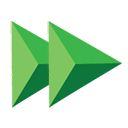
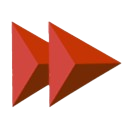
increase & decrease velocity

diff --git a/src/main/java/jmt/jmch/wizard/panels/AnimationPanel.java b/src/main/java/jmt/jmch/wizard/panels/AnimationPanel.java
@@ -52,6 +52,7 @@ import javax.swing.JScrollPane;
 import javax.swing.JSlider;
 import javax.swing.JSpinner;
 import javax.swing.SpinnerNumberModel;
+import javax.swing.SwingConstants;
 import javax.swing.SwingUtilities;
 import javax.swing.border.EmptyBorder;
 import javax.swing.border.EtchedBorder;
@@ -75,8 +76,10 @@ import jmt.jmch.Constants;
 import jmt.jmch.Solver;
 import jmt.jmch.wizard.actionsWizard.About;
 import jmt.jmch.wizard.actionsWizard.AbstractMCHAction;
+import jmt.jmch.wizard.actionsWizard.DecreaseVelocity;
 import jmt.jmch.wizard.actionsWizard.Exit;
 import jmt.jmch.wizard.actionsWizard.Help;
+import jmt.jmch.wizard.actionsWizard.IncreaseVelocity;
 import jmt.jmch.wizard.actionsWizard.NextStepSimulation;
 import jmt.jmch.wizard.actionsWizard.PauseSimulation;
 import jmt.jmch.wizard.actionsWizard.ReloadSimulation;
@@ -163,6 +166,12 @@ public class AnimationPanel extends WizardPanel implements JMCHWizardPanel, GuiI
     private AbstractMCHAction nextStep;
     private AbstractMCHAction openHelp;
     private AbstractMCHAction about;
+    private AbstractMCHAction increaseVelocity;
+    private AbstractMCHAction decreaseVelocity;
+
+    //------------ properties simulation velocity ---------------
+    private double[] velocity = {0.25, 0.5, 1, 2.0, 4.0};
+    private int indexVelocity = 2;
 
     //--------------properties of the animation------------------
     private Simulation simulation;
@@ -191,6 +200,8 @@ public class AnimationPanel extends WizardPanel implements JMCHWizardPanel, GuiI
         nextStep = new NextStepSimulation(this);
         openHelp = new Help(this,"JTCH");
         about = new About(this);
+        increaseVelocity = new IncreaseVelocity(this);
+        decreaseVelocity = new DecreaseVelocity(this);
 
         start.setEnabled(true); 
         nextStep.setEnabled(false);
@@ -353,7 +364,7 @@ public class AnimationPanel extends WizardPanel implements JMCHWizardPanel, GuiI
             JPanel p1Panel = new JPanel();
             probabilitiesPanel.add(p1Panel);            
             p1Panel.setLayout(new GridLayout(1,2));
-            p1Panel.add(new JLabel("P1:"));
+            p1Panel.add(new JLabel("Probability P1:"));      
             SpinnerNumberModel model1 = new SpinnerNumberModel(0.5,0,1,0.01);
             prob1 = new JSpinner(model1);
             p1Panel.add(prob1);
@@ -362,7 +373,7 @@ public class AnimationPanel extends WizardPanel implements JMCHWizardPanel, GuiI
             JPanel p2Panel = new JPanel();
             probabilitiesPanel.add(p2Panel);
             p2Panel.setLayout(new GridLayout(1,2));
-            p2Panel.add(new JLabel("P2:"));
+            p2Panel.add(new JLabel("Probability P2:"));
             SpinnerNumberModel model2 = new SpinnerNumberModel(0.5,0,1,0.01);
             prob2 = new JSpinner(model2);
             p2Panel.add(prob2);
@@ -733,7 +744,7 @@ public class AnimationPanel extends WizardPanel implements JMCHWizardPanel, GuiI
 		menu.addMenu(action);
 
         //Solve window
-		action = new MenuAction("Solve", new AbstractMCHAction[] {start, pause, reload, nextStep, null});
+		action = new MenuAction("Solve", new AbstractMCHAction[] {start, pause, reload, nextStep, null, decreaseVelocity, increaseVelocity});
 		menu.addMenu(action);
 
         //Help window
@@ -750,29 +761,26 @@ public class AnimationPanel extends WizardPanel implements JMCHWizardPanel, GuiI
         JMTToolBar toolbar = new JMTToolBar(JMTImageLoader.getImageLoader());	
 
         //first add all the icons with their actions
-        AbstractMCHAction[] actions = new AbstractMCHAction[] {start, pause, reload, nextStep, null, openHelp}; // Builds an array with all actions	
+        AbstractMCHAction[] actions = new AbstractMCHAction[] {start, pause, reload, nextStep, null, decreaseVelocity, increaseVelocity, openHelp}; // Builds an array with all actions	
         toolbar.populateToolbar(actions);
         ArrayList<AbstractButton> buttons = new ArrayList<AbstractButton>(); //create a list of AbstractButtons for the helpLabel
 		buttons.addAll(toolbar.populateToolbar(actions));
+        toolbar.setFloatable(false);
 
-        parent.setToolBar(toolbar);
-        toolbar.setVisible(true);
 
-        System.out.println(toolbar.getHeight());
-
-        SwingUtilities.invokeLater(() -> {
+        /*SwingUtilities.invokeLater(() -> {
         	System.out.println(toolbar.getHeight());
             int toolbarHeight = toolbar.getHeight();
 
             toolbar.setPreferredSize(new Dimension(toolbar.getWidth(), toolbarHeight));
             toolbar.setMaximumSize(new Dimension(Integer.MAX_VALUE, toolbarHeight)); 
 
-            VelocityPanel vp = new VelocityPanel(toolbar.getHeight());
+            VelocityPanel vp = new VelocityPanel();
             toolbar.add(vp); 
         });
          
         
-        System.out.println(toolbar.getHeight());
+        System.out.println(toolbar.getHeight()); */
 
         //add help for each Action/JComboBox with helpLabel
 		for (int i = 0; i < buttons.size(); i++) {
@@ -780,7 +788,7 @@ public class AnimationPanel extends WizardPanel implements JMCHWizardPanel, GuiI
 			help.addHelp(button, Constants.HELP_BUTTONS_ANIMATIONS[i]);
 		}
 		  
-		
+		parent.setToolBar(toolbar);
 	}
 
     @Override
@@ -920,6 +928,28 @@ public class AnimationPanel extends WizardPanel implements JMCHWizardPanel, GuiI
         nextStep.setEnabled(true);
     }
 
+
+    public void increaseVelocity(){
+        indexVelocity++;
+        if(indexVelocity == velocity.length - 1){
+            increaseVelocity.setEnabled(false);
+            decreaseVelocity.setEnabled(true);
+        }
+        System.out.println(velocity[indexVelocity]);
+        //increase simulation velocity
+    }
+
+
+    public void decreaseVelocity(){
+        indexVelocity--;
+        if(indexVelocity == 0){
+            decreaseVelocity.setEnabled(false);
+            increaseVelocity.setEnabled(true);
+        }
+        System.out.println(velocity[indexVelocity]);
+        //decrease simulation velocity
+    }
+
     @Override
     public void stopAnimation() {
         disableAllButtons();
@@ -1019,8 +1049,6 @@ public class AnimationPanel extends WizardPanel implements JMCHWizardPanel, GuiI
  * Panel in the toolBar for the velocity of the simlation
  */
 class VelocityPanel extends JPanel{
-    private int maxHeight;
-
     private JLabel velocityL;
 
     private JSlider velocityS;
@@ -1029,11 +1057,8 @@ class VelocityPanel extends JPanel{
     private final int init = 10; // 1.0
     private final double multiplier = 10.0;
 
-    public VelocityPanel(int height){
+    public VelocityPanel(){
         super(new BorderLayout());
-        maxHeight = height;
-        //setMaximumSize(new Dimension(Integer.MAX_VALUE, maxHeight));
-        //setPreferredSize(new Dimension(Integer.MAX_VALUE, maxHeight));
         
         initialize();
     }
@@ -1047,6 +1072,7 @@ class VelocityPanel extends JPanel{
         mainPanel.add(velocityL);
 
         velocityS = new JSlider(min, max, init);
+        velocityS.setBorder(BorderFactory.createEmptyBorder(10, 0, 0, 0));
         velocityS.setMajorTickSpacing(5); 
         velocityS.setMinorTickSpacing(1);
         velocityS.setPaintLabels(true);

diff --git a/src/main/java/jmt/jmch/Constants.java b/src/main/java/jmt/jmch/Constants.java
@@ -18,6 +18,8 @@
 
 package jmt.jmch;
 
+import org.freehep.graphicsio.swf.SWFAction.If;
+
 /**
  * Class that contains most of the descriptions and help labels of JMCH
  * 
@@ -45,23 +47,23 @@ public class Constants {
 
     //descriptions of all the policies
     public static final String FCFS_DESCRIPTION = 
-        "The FCFS (First come first served) policy is a scheduling rule that executes queued jobs based on their arrival time.";
+        "The FCFS (First come first served) sheduling policy is a scheduling rule that executes queued jobs based on their arrival time.";
     public static final String LCFS_DESCRIPTION = 
-        "The LCFS (Last come first served) policy is a scheduling rule that executes queued jobs in reverse sequence with respect to their arrival time.";
+        "The LCFS (Last come first served) sheduling policy  is a scheduling rule that executes queued jobs in reverse sequence with respect to their arrival time.";
     public static final String SJF_DESCRIPTION =
-        "The SJF (Shortest Job First) policy is a scheduling rule that executes queued jobs in reverse sequence of their requested service time (the shortest job is the first).";
+        "The SJF (Shortest Job First) scheduling policy is a scheduling rule that executes queued jobs in reverse sequence of their requested service time (the shortest job is the first).";
     public static final String LJF_DESCRIPTION =
-        "The LJF (Longest Job First) policy is a scheduling rule that executes queued jobs based on the sequence of required service time (the longest job is the first).";
+        "The LJF (Longest Job First) scheduling policy is a scheduling rule that executes queued jobs based on the sequence of required service time (the longest job is the first).";
     
     public static final String PS_DESCRIPTION = 
-        "<html>The Processor Sharing (PS) policy is a scheduling rule where the server processes all customers simultaneously, allocating a fraction of its total capacity to each, inversely proportional to the number of customers. If the station has m servers but only n &lt; m customers. each is executed as if it were alone.</html>";
+        "<html>The Processor Sharing (PS) scheduling policy is a scheduling rule where a fraction of the total server capacity (inversely proportional to the number of running clients) is allocated to each incoming client. If the station has n servers but only m &lt; n customers, then each customer is executed as if it were alone in the system.</html>";
 
     public static final String RR_DESCRIPTION =
         "The RR (Round Robin) policy is a routing rule where jobs are routed cyclically to outgoing links based on circular routing pattern. The first job is sent to the link of the top station.";
     public static final String PROB_DESCRIPTION =
         "The Probabilities policy is a routing rule where jobs are routed to outgoing links based on assigned probabilities (that must sum to 1).";
     public static final String JSQ_DESCRIPTION =
-        "The JSQ (Join the Shortest Job Queue) policy is a routing rule to distribute jobs as they arrive at the router. Jobs are routed to the station connected to the router that has the smallest number of customers in its queue.";
+        "The JSQ (Join the Shortest Job Queue) policy is a routing rule where arriving jobs are routed to the connected station with the least number of customers in the queue.";
     
     static final String HTML_START = "<html><body><p style='text-align:justify;'>";
     static final String HTML_END = "</p></body></html>";
@@ -112,6 +114,8 @@ public class Constants {
         "Pause the running simulation",
         "Reload the simulation",  
         "Perform a next step in the simulation",
+        "Halve the simulation's velocity",
+        "Double the simulation's velocity",
         "Open the help page"
     };
         

diff --git a/src/main/java/jmt/jmch/animation/Edge.java b/src/main/java/jmt/jmch/animation/Edge.java
@@ -92,6 +92,7 @@ public class Edge extends JComponent implements JobContainer{
 	
 	//for the probabilistic routing
 	private boolean paintPercentage = false;
+	private int index = -1;
 	private double percentage = 0.00;
 
 	//for the nextEvent simulation
@@ -160,7 +161,7 @@ public class Edge extends JComponent implements JobContainer{
 		if(paintPercentage) {
 			g.setFont(new Font("Arial", Font.PLAIN, 10));
 			DecimalFormat df = new DecimalFormat("#.##");
-			String value = "p: "+ df.format(percentage);
+			String value = "P" + index + ": "+ df.format(percentage);
 			Direction direction = getDirection(points[0], points[1]);
 			if(direction == Direction.UP || direction == Direction.DOWN) {
 				g.drawString(value, points[0].x - 40,  points[0].y + direction.direction() * 15);
@@ -182,10 +183,12 @@ public class Edge extends JComponent implements JobContainer{
 	/**
 	 * Method to paint the percentage near the edge. 
 	 * This method is useful for Routing Probabilistic policy
-	 * @param p
+	 * @param p percentage
+	 * @param index value of the i-th edge
 	 */
-	public void paintPercentage(double p) {
+	public void paintPercentage(double p, int index) {
 		paintPercentage = true;
+		this.index = index;
 		percentage = p;
 	}
 	

diff --git a/src/main/java/jmt/jmch/wizard/actionsWizard/IncreaseVelocity.java b/src/main/java/jmt/jmch/wizard/actionsWizard/IncreaseVelocity.java
@@ -1,0 +1,39 @@
+package jmt.jmch.wizard.actionsWizard;
+
+import java.awt.event.ActionEvent;
+import java.awt.event.InputEvent;
+import java.awt.event.KeyEvent;
+
+import javax.swing.KeyStroke;
+
+import jmt.jmch.wizard.panels.JMCHWizardPanel;
+
+
+/**
+ * @author Lorenzo Torri
+ * Date: 20-sept-2024
+ * Time: 15.47
+ */
+public class IncreaseVelocity extends AbstractMCHAction {
+
+    private static final long serialVersionUID = 1L;
+
+    /**
+     * Defines an <code>Action</code> object with a default
+     * description string and default icon.
+     */
+    public IncreaseVelocity(JMCHWizardPanel wizardpanel) {
+        super("Increase Velocity Animation", "SimTripleFront", wizardpanel);
+        putValue(SHORT_DESCRIPTION, "Increase velocity");
+        //putValue(MNEMONIC_KEY, new Integer(KeyEvent.VK_S));
+        //putValue(ACCELERATOR_KEY, KeyStroke.getKeyStroke(KeyEvent.VK_S, InputEvent.ALT_MASK));
+    }
+
+    /**
+     * Invoked when an action occurs.
+     */
+    public void actionPerformed(ActionEvent e) {
+        //panel.increaseVelocity();
+    }
+
+}

diff --git a/src/main/java/jmt/jmch/wizard/actionsWizard/DecreaseVelocity.java b/src/main/java/jmt/jmch/wizard/actionsWizard/DecreaseVelocity.java
@@ -1,0 +1,39 @@
+package jmt.jmch.wizard.actionsWizard;
+
+import java.awt.event.ActionEvent;
+import java.awt.event.InputEvent;
+import java.awt.event.KeyEvent;
+
+import javax.swing.KeyStroke;
+
+import jmt.jmch.wizard.panels.JMCHWizardPanel;
+
+
+/**
+ * @author Lorenzo Torri
+ * Date: 20-sept-2024
+ * Time: 15.47
+ */
+public class DecreaseVelocity extends AbstractMCHAction {
+
+    private static final long serialVersionUID = 1L;
+
+    /**
+     * Defines an <code>Action</code> object with a default
+     * description string and default icon.
+     */
+    public DecreaseVelocity(JMCHWizardPanel wizardpanel) {
+        super("Decrease Velocity Animation", "SimTripleBack", wizardpanel);
+        putValue(SHORT_DESCRIPTION, "Decrease velocity");
+        //putValue(MNEMONIC_KEY, new Integer(KeyEvent.VK_S));
+        //putValue(ACCELERATOR_KEY, KeyStroke.getKeyStroke(KeyEvent.VK_S, InputEvent.ALT_MASK));
+    }
+
+    /**
+     * Invoked when an action occurs.
+     */
+    public void actionPerformed(ActionEvent e) {
+        
+    }
+
+}

diff --git a/src/main/java/jmt/jmch/animation/Router.java b/src/main/java/jmt/jmch/animation/Router.java
@@ -97,7 +97,7 @@ public class Router extends JComponent implements JobContainer, GraphicComponent
 		
 		if(simulation.getName() == Constants.PROBABILISTIC) { //if the policy is the PROB then the edges must paint also their percentage
 			for(int i = 0; i < nextEdges.size(); i++) {
-				nextEdges.get(i).paintPercentage(percentages[i]);
+				nextEdges.get(i).paintPercentage(percentages[i], i+1);
 			}
 		}
 	}
@@ -233,11 +233,12 @@ public class Router extends JComponent implements JobContainer, GraphicComponent
 		percentages = probabilities;
 		//repaint all the edges
 		for(int i = 0; i < nextEdges.size(); i++) {
-			nextEdges.get(i).paintPercentage(percentages[i]);
+			nextEdges.get(i).paintPercentage(percentages[i], i+1);
 		}
 	}
-	//---------- Graphic Component methods
 
+
+	//---------- Graphic Component methods
 	@Override
 	public void setXPos(int xpos) {
 		pos.x = xpos;

diff --git a/src/main/java/jmt/jmch/wizard/panels/MainPanel.java b/src/main/java/jmt/jmch/wizard/panels/MainPanel.java
@@ -464,7 +464,7 @@ public class MainPanel extends WizardPanel implements JMCHWizardPanel{
         toolbar = new JMTToolBar(JMTImageLoader.getImageLoader());	
 
         //first add all the icons with their actions
-        AbstractMCHAction[] actions = new AbstractMCHAction[] {null, openHelp}; // Builds an array with all actions to be put in the toolbar
+        AbstractMCHAction[] actions = new AbstractMCHAction[] {openHelp}; // Builds an array with all actions to be put in the toolbar
 		String[] helpText = {"Open the help page"};
         toolbar.populateToolbar(actions);
         ArrayList<AbstractButton> buttons = new ArrayList<AbstractButton>(); //create a list of AbstractButtons for the helpLabel

diff --git a/src/main/java/jmt/jmch/wizard/actionsWizard/StopSimulation.java b/src/main/java/jmt/jmch/wizard/actionsWizard/StopSimulation.java
@@ -42,8 +42,8 @@ public class StopSimulation extends AbstractMCHAction {
     public StopSimulation(JMCHWizardPanel wizardpanel) {
         super("Stop Simulation", "Stop", wizardpanel);
         putValue(SHORT_DESCRIPTION, "Stop simulation");
-        putValue(MNEMONIC_KEY, new Integer(KeyEvent.VK_S));
-        putValue(ACCELERATOR_KEY, KeyStroke.getKeyStroke(KeyEvent.VK_S, InputEvent.ALT_MASK));
+        //putValue(MNEMONIC_KEY, new Integer(KeyEvent.VK_S));
+        //putValue(ACCELERATOR_KEY, KeyStroke.getKeyStroke(KeyEvent.VK_S, InputEvent.ALT_MASK));
     }
 
     /**

diff --git a/src/main/java/jmt/jmch/wizard/actionsWizard/NextStepSimulation.java b/src/main/java/jmt/jmch/wizard/actionsWizard/NextStepSimulation.java
@@ -42,8 +42,8 @@ import jmt.jmch.wizard.panels.JMCHWizardPanel;
      public NextStepSimulation(JMCHWizardPanel wizardpanel) {
          super("Next step", "SimDouble", wizardpanel);
          putValue(SHORT_DESCRIPTION, "Next step");
-         putValue(MNEMONIC_KEY, new Integer(KeyEvent.VK_S));
-         putValue(ACCELERATOR_KEY, KeyStroke.getKeyStroke(KeyEvent.VK_S, InputEvent.ALT_MASK));
+         //putValue(MNEMONIC_KEY, new Integer(KeyEvent.VK_N));
+         //putValue(ACCELERATOR_KEY, KeyStroke.getKeyStroke(KeyEvent.VK_N, InputEvent.ALT_MASK));
      }
  
      /**

diff --git a/src/main/java/jmt/jmch/wizard/actionsWizard/ReloadSimulation.java b/src/main/java/jmt/jmch/wizard/actionsWizard/ReloadSimulation.java
@@ -38,7 +38,7 @@ public class ReloadSimulation extends AbstractMCHAction {
     public ReloadSimulation(JMCHWizardPanel panel) {
         super("Reload Simulation", "Stop", panel);
         putValue(SHORT_DESCRIPTION, "Reload simulation");
-        //putValue(MNEMONIC_KEY, new Integer(KeyEvent.VK_S));
+        //putValue(MNEMONIC_KEY, new Integer(KeyEvent.VK_R));
     }
 
     /**
